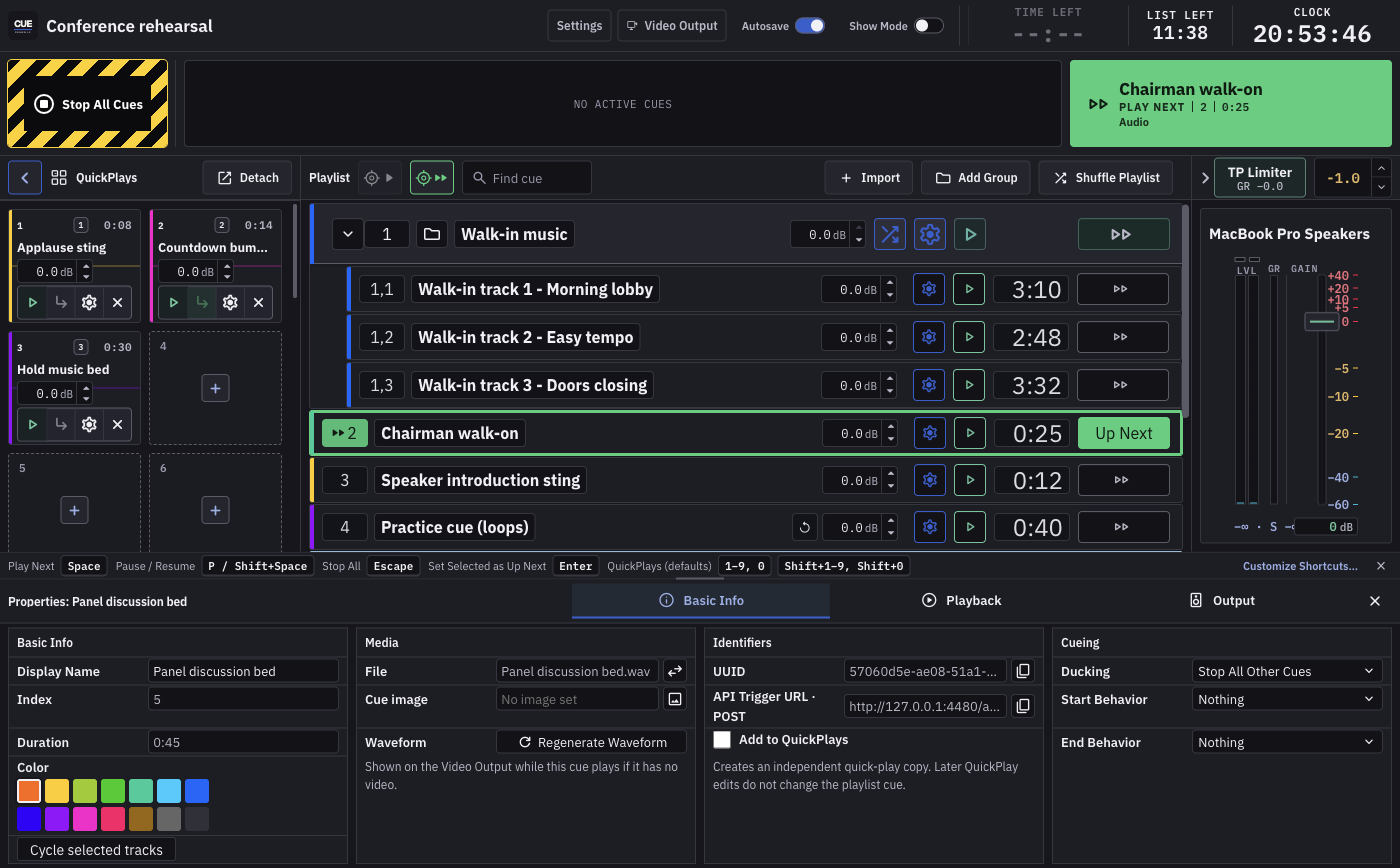
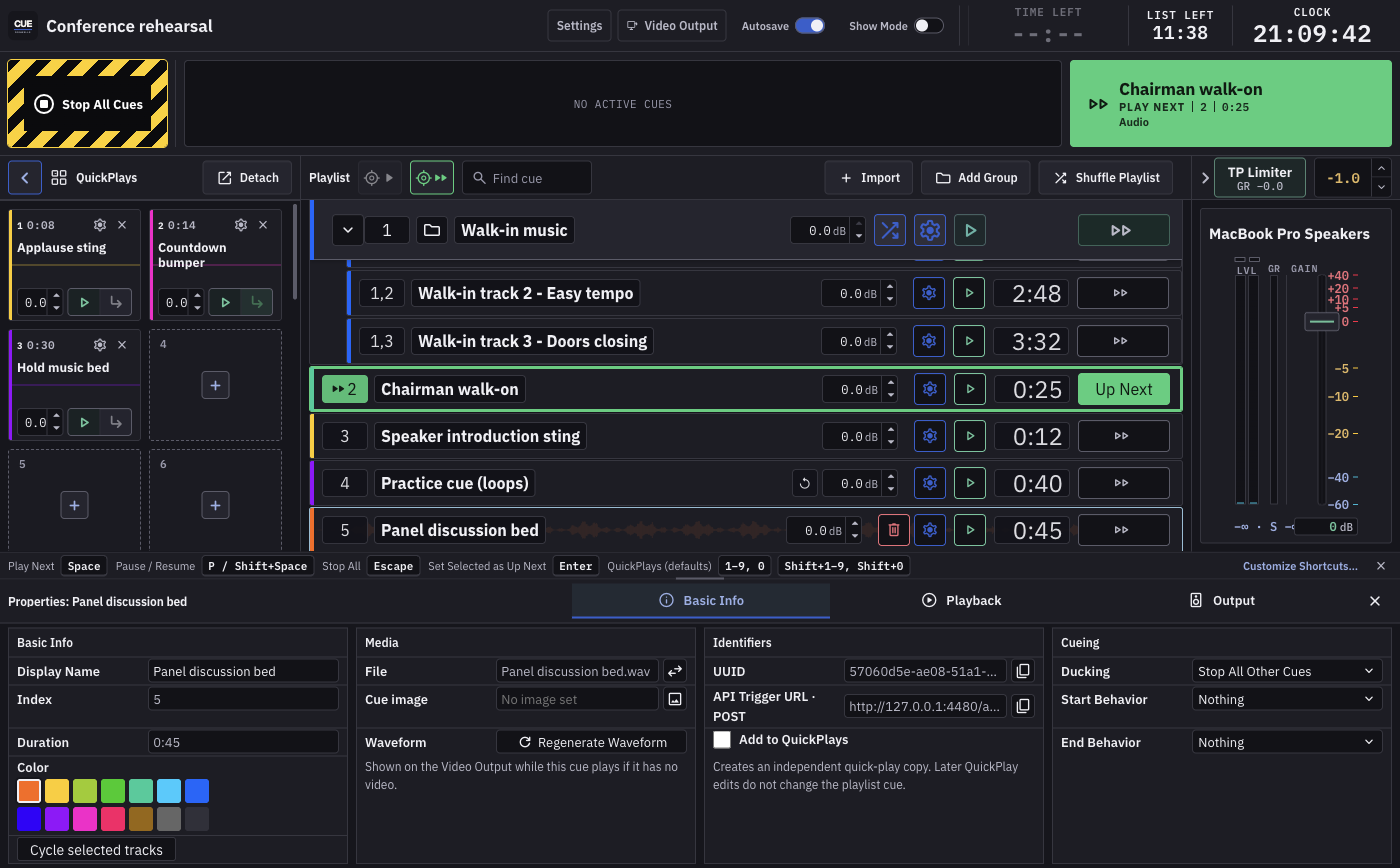
Manual: both modes pictured at one window size, new QuickPlay tile, no Setup button

diff --git a/docs/operators-manual.md b/docs/operators-manual.md
@@ -132,13 +132,11 @@ A cue is one line at every window size. On a narrow playlist a long cue name is 
 
 ### Show Mode
 
-Switch to **Show Mode** for performance after preparation is complete. It is Edit Mode with the editing taken out: the same rows, QuickPlays and transport, at the same size and in the same places, without Import, Add Group, Shuffle, the settings and delete buttons on rows and tiles, drag and drop, or typed levels. Nothing moves or changes size when you switch, and the row height and QuickPlays layout in **Settings → User Interface** apply to both modes. GO and assigned controls remain live. The QuickPlay Play/Stop button and keyboard and MIDI triggers work the same way in both modes. Use Edit Mode to change the bank.
-
-In Show Mode the top bar keeps only what a show needs in view: warnings, the **Show Mode** switch and the clocks. **Settings**, **Video Output** and **Autosave** fold into one **Setup** button; press it to reach them. The menu closes when you choose something or press anywhere else.
+Switch to **Show Mode** for performance after preparation is complete. It is Edit Mode with the editing taken out: the same rows, QuickPlays and transport, at the same size and in the same places, without Import, Add Group, Shuffle, the settings and delete buttons on rows and tiles, drag and drop, or typed levels. The places of those buttons stay empty, and the top bar and transport are unchanged. Nothing moves or changes size when you switch, and the row height and QuickPlays layout in **Settings → User Interface** apply to both modes. GO and assigned controls remain live. The QuickPlay Play/Stop button and keyboard and MIDI triggers work the same way in both modes. Use Edit Mode to change the bank.
 
 Rehearse at the actual display size and app zoom. Settings, Properties, and imports share the lower panel. It fits the content up to 60% of the window, with room reserved for the playlist. On a short window the panel may scroll sooner. Tabs stay along the bottom while the controls scroll. Drag the top grip down for more playlist room or up for more controls. You can also focus the grip and use **Up/Down**. Each panel remembers its adjusted height while the app is open. GO and Stop All stay at the top and the shortcut bar shows a compact reference. **Customize Shortcuts…** opens the full editor. Settings choices for default transition, language, meter display and meter ballistics expand in the panel.
 
-![Show Mode at a small window size: the same layout as Edit Mode without the editing controls, with the silence countdown, the playing cue edged in red, Up Next in green, the Setup button, and the one-line shortcut reference.](manual-assets/show-mode.png)
+![Show Mode at the same window size as the Edit Mode picture above: the same screen without the editing controls, with the silence countdown, the playing cue edged in red, and Up Next in green.](manual-assets/show-mode.png)
 
 ### Selection is not arming
 
@@ -541,7 +539,7 @@ Drop a file from the controller directly onto a slot, including for a remote eng
 
 In Edit Mode, the tile gear opens the same **Properties** panel a playlist cue uses, with one extra **QuickPlay** column. **Basic Info** holds the name, color, file, **Ducking**, **Start Behavior**, and **End Behavior**. **Playback** has the waveform with trim points, gain, normalizing, fade handles, **Fade Settings**, and **Transitions**. **Output** has the device and timecode. The **QuickPlay** column holds what only a QuickPlay has: **When triggered again**, its **Keyboard Shortcut**, and, with Duck Others selected, **Duck Time** and **Release Time**. The remove control is on the tile.
 
-Show Mode hides the gear and the remove control, so a tile shows only **Play/Stop** and the **Cue to Continue** toggle. Switch to Edit Mode to change a QuickPlay.
+A tile shows its number and time on the top line, its name, and one row of controls: the level, **Play/Stop** and the **Cue to Continue** toggle. The key appears beside the number only when it is not the number itself, as with **⇧1** on QuickPlay 11. In Edit Mode the gear and the remove control sit at the end of the top line; Show Mode takes those two out and changes nothing else. Switch to Edit Mode to change a QuickPlay.
 
 The detached QuickPlays window has no Properties panel. There the gear opens a compact **QuickPlay Settings** panel below the tiles in Edit Mode, with **Playback**, **When triggered again**, **Ending**, gain, fades, **Output**, the shortcut, and **Replace audio**. Its **Ending** list offers Stop, Loop, and Play Next; a Go to ending is set in the main window.
 
